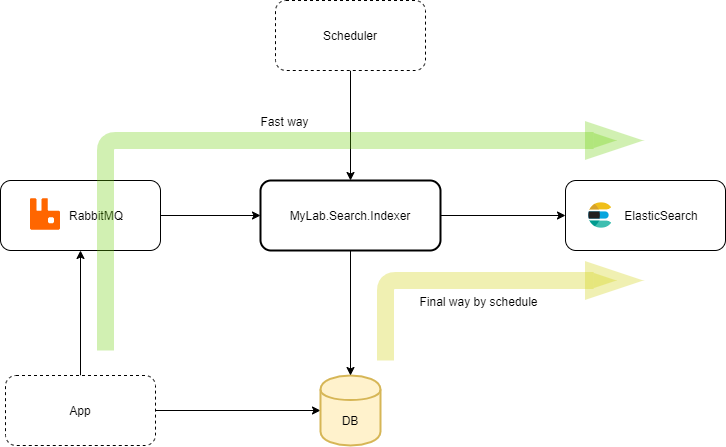
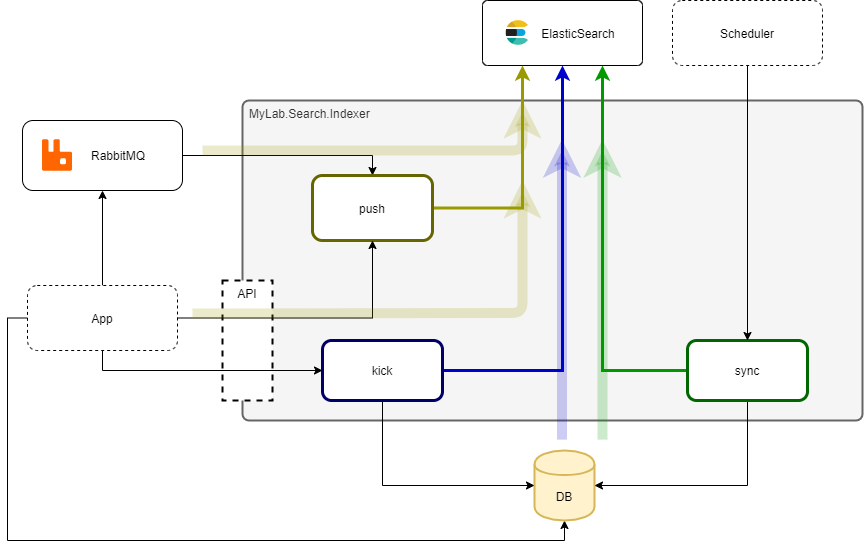
Update doc

diff --git a/README.md b/README.md
@@ -2,6 +2,8 @@
 
 [![Docker image](https://img.shields.io/static/v1?label=docker&style=flat&logo=docker&message=image&color=blue)](https://github.com/mylab-search-fx/indexer/pkgs/container/indexer)
 
+[![NuGet](https://img.shields.io/nuget/v/MyLab.Search.IndexerClient.svg)](https://www.nuget.org/packages/MyLab.Search.IndexerClient/)
+
 Индексирует данные из базы данных и/или `RabbitMQ` в `ElasticSearch`.
 
 ## Обзор
@@ -12,55 +14,20 @@
 
 Процесс индексации определяет следующие особенности:
 
-* данные могут быть получены из очереди (`RabbitMQ`) и/или из БД в зависимости от настроек;
-* база данных является приоритетным источником, т.е. если данные об индексируемой сущности приходят через очередь, то они перезапишутся данными из БД в ближайшей итерации по расписанию;
-* при совместном использовании, очерди и БД, назначение очереди - максимально быстро доставить данные для индексирования;
+* данные могут быть получены:
+  * из `БД`;
+  * через очередь;
+  * через `WEB API`.
+
+* база данных является приоритетным источником, т.е. если данные об индексируемой сущности приходят через очередь или `api`, то они перезапишутся данными из БД в ближайшей итерации по расписанию;
+* при совместном использовании, очерди/`api` и БД, назначение очереди/`api` - максимально быстро доставить данные для индексирования;
 * поддерживается индексация нескольких сущностей.
 
 ## Множественная индексация
 
-Приложение `Indexer` определяет абстракцию `Job`, объединяющую настроки индексации сущностей из БД и/или очереди. `Indexer` через конфигурацию поддерживает указание нескольких `Job`, что позволяет использовать один экземпляр `Indexer` для индекксирования нескольких типов сущностей, которые извлекаются разными запросами, получаются из разных очередей и индексируются в разных индексах по разным правилам.
+Приложение `Indexer` определяет абстракцию `Namespace`, объединяющую настроки индексации сущностей из БД, очереди и `api`. `Indexer` через конфигурацию поддерживает указание нескольких `Namespace`, что позволяет использовать один экземпляр `Indexer` для индекксирования нескольких типов сущностей, которые извлекаются разными запросами, получаются из разных очередей и индексируются в разных индексах по разным правилам.
 
-Все объявленные `Job`-ы выполняются последовательно, в соответствии с конфигурацией в рамках каждой итерации. В случае получения сообщений из очереди, `Job` определяется по очереди, из которой получено сообщение.  
-
-## Индексация через очередь
-
-При передаче данных через очередь, сущности передаются по одному в формате `JSON`. Не в зависимости от того, изменена ли сущетсвующая сущность или создаётся новая, передаваться в сообщении должны все актуальные данные в том виде, в каком они будут индексироваться. В случае, если сущность новая, то запись о ней появится в `ElasticSearch`. Если сущность была изменена и её индесированная копия уже есть в `ElasticSearch`, то данные будут заменены. Сопоставление переданной сущности и индексированной копии происходит по полю, указанному в настройках `Indexer.Jobs[].IdProperty` (поле-идентификатор). 
-
-Ниже приведён пример отправки тестовой сущности. В настройках поле-идентификатор - `Id`:
-
-```C#
-public class SearchTestEntity
-{
-    public long Id { get; set; }
-    public string Value { get; set; }
-}
-```
-
-Тело сообщения #1 в очереди:
-
-```json
-{"Id":2,"Value":"foo"}
-```
-
-Результат поиска #1 индексированной сущности (лишнее обрезано):
-
-```json
-{ "_source": { "Id": 2, "Value": "foo" } }
-```
-
-Тело сообщения #2 в очереди:
-
-```json
-{"Id":2,"Value":"bar"}
-```
-
-Результат поиска #2 индексированной сущности (лишнее обрезано):
-
-```json
-{ "_source": { "Id": 2, "Value": "bar" } }
-```
-
+Все объявленные `Namespace`-ы синхронизируются последовательно, в соответствии с конфигурацией в рамках каждой итерации. В случае получения сообщений из очереди, `Namespace` определяется по очереди, из которой получено сообщение. При обращзении через `API` имя `Namespace` передаётся в запросе.
 ## Индексация через БД
 
 Выборка даных для индексации осуществляется в соответствии с настройками и "отступом" последней выборки - `seed`. В зависимости от выбранной стратегии выборки, `seed` может принимать целочисленное значение или дату и время. В конце каждой итерации новый `seed` сохраняется в локальный файл. В начале очередной итерации - загружается. Если это первая итерации или файл не найден, то используется минимальное значение соответствующего типа.
@@ -75,18 +42,18 @@ public class SearchTestEntity
 
 Запрос БД может быть указан в: 
 
-* конфигурации `Job`-а: `Indexer.Jobs[].DbQuery`
+* конфигурации `Namespace`-а: `Indexer.Namespaces[].DbQuery`
 
 * или размещён в файле, путь которого состоит из следующих частей:
 
-  * базовый путь к директории с файлами `Job`-ов из конфигурации `Indexer.JobPath` = `/etc/mylab-indexer/jobs` (по умолчанию);
-  * идентификатор `Job`-а;
+  * базовый путь к директории с файлами `Job`-ов из конфигурации `Indexer.NamespacesPath` = `/etc/mylab-indexer/namespaces` (по умолчанию);
+  * идентификатор `Namespace`-а;
   * `query.sql`.
 
   Пример:
 
   ```
-  /etc/mylab-indexer/jobs/users/query.sql
+  /etc/mylab-indexer/namespaces/users/query.sql
   ```
 
 Запрос представляет из себя `SQL` запрос, в котором доступны следующие переменные:
@@ -138,6 +105,148 @@ select * from foo_table where Id > @seed
 select * from foo_table where LastModified > @seed
 ```
 
+## Push индексация
+
+`Push`-индексация - подход, подразумевающий передачу полноценной сущности со всеми её полями для индексации. При этом переданная сущность полностью заменяет сущость, проиндексированную ранее с тем же идентификатором.
+
+Не в зависимости от того, изменена ли сущетсвующая сущность или создаётся новая, передаваться в сообщении должны все актуальные данные в том виде, в каком они будут индексироваться. В случае, если сущность новая, то запись о ней появится в `ElasticSearch`. Если сущность была изменена и её индесированная копия уже есть в `ElasticSearch`, то данные будут заменены. Сопоставление переданной сущности и индексированной копии происходит по полю, указанному в настройках `Indexer.Namespaces[].IdProperty` (поле-идентификатор). 
+
+Применяется только для стратегии индексации `Add`.
+
+### Push через очередь
+
+При индексации через очередь, сущности передаются по одному в формате `JSON`.
+
+Ниже приведён пример отправки тестовой сущности. В настройках поле-идентификатор - `Id`:
+
+```C#
+public class SearchTestEntity
+{
+    public long Id { get; set; }
+    public string Value { get; set; }
+}
+```
+
+Тело сообщения #1 в очереди:
+
+```json
+{"Id":2,"Value":"foo"}
+```
+
+Результат поиска #1 индексированной сущности (лишнее обрезано):
+
+```json
+{ "_source": { "Id": 2, "Value": "foo" } }
+```
+
+Тело сообщения #2 в очереди:
+
+```json
+{"Id":2,"Value":"bar"}
+```
+
+Результат поиска #2 индексированной сущности (лишнее обрезано):
+
+```json
+{ "_source": { "Id": 2, "Value": "bar" } }
+```
+
+### Push через API
+
+При индексации через `api`, сущности передаются в формате `JSON`.
+
+Ниже приведён пример отправки тестовой сущности. В настройках поле-идентификатор - `Id`:
+
+```c#
+public class SearchTestEntity
+{
+    public long Id { get; set; }
+    public string Value { get; set; }
+}
+```
+
+Запрос #1:
+
+```http
+POST http://localhost/v1/test-namespaces
+
+Content-Type: application/json
+Content-Length: 20
+
+{"Id":2,"Value":"foo"}
+```
+
+Результат поиска #1 индексированной сущности (лишнее обрезано):
+
+```json
+{ "_source": { "Id": 2, "Value": "foo" } }
+```
+
+Запрос #2:
+
+```http
+POST http://localhost/v1/test-namespaces
+
+Content-Type: application/json
+Content-Length: 20
+
+{"Id":2,"Value":"bar"}
+```
+
+Результат поиска #2 индексированной сущности (лишнее обрезано):
+
+```json
+{ "_source": { "Id": 2, "Value": "bar" } }
+```
+
+## Kick индексация
+
+`Kick`-индексация - подход, подразумевающий передачу идентификатора сущности для дальнейшей её переиндексации из первоисточника - БД.
+
+### Kick через API
+
+Ниже приведён пример индексации сущности через `kick`-запрос. В настройках поле-идентификатор - `Id`:
+
+```c#
+public class SearchTestEntity
+{
+    public long Id { get; set; }
+    public string Value { get; set; }
+}
+```
+
+Результат поиска #1 индексированной сущности (лишнее обрезано):
+
+```json
+{ "_source": { "Id": 2, "Value": "foo" } }
+```
+
+Приложение обновляет сущность в БД:
+
+```sql
+DECLARE @Value_1 VarChar(3) -- String
+SET     @Value_1 = 'bar'
+
+UPDATE
+	`test` `e`
+SET
+	`e`.`Value` = @Value_1
+WHERE
+	`e`.`Id` = 2
+```
+
+`kick`-запрос:
+
+```http
+POST http://localhost/v1/test-namespaces/2/kick
+```
+
+Результат поиска #2 индексированной сущности (лишнее обрезано):
+
+```json
+{ "_source": { "Id": 2, "Value": "bar" } }
+```
+
 ## Удаление из индекса
 
 Данное решение не реализует удаление индексированных данных. Например, при удалении сущности из БД. 
@@ -149,7 +258,7 @@ select * from foo_table where LastModified > @seed
 
 ## Создание индекса
 
-Если в процессе индексирования, `Indexer` обнаружит, что целевой индекс в `ElasticSearch` отсутствует, то он попытается его сздать. При этом, будут использованы настройки в соответствии со стратегией определения настроек инлекса из параметра конфигурации приложения `Indexer.Jobs[].NewIndexStrategy`, который может принимать значения: `Auto`/`File`.
+Если в процессе индексирования, `Indexer` обнаружит, что целевой индекс в `ElasticSearch` отсутствует, то он попытается его сздать. При этом, будут использованы настройки в соответствии со стратегией определения настроек инлекса из параметра конфигурации приложения `Indexer.Namespaces[].NewIndexStrategy`, который может принимать значения: `Auto`/`File`.
 
 ### Cтратегия  `Auto`
 
@@ -185,7 +294,7 @@ select * from foo_table where LastModified > @seed
 
 По этой стратегии запрос создания индекса загружаются из файла, путь к которому формируется из следующих частей:
 
-* базовый путь к директории с файлами `Job`-ов из конфигурации `Indexer.JobPath` = `/etc/mylab-indexer/jobs` (по умолчанию);
+* базовый путь к директории с файлами `Job`-ов из конфигурации `Indexer.NamespacesPath` = `/etc/mylab-indexer/jobs` (по умолчанию);
 * идентификатор `Job`-а;
 * `new-index.json`.
 
@@ -263,13 +372,14 @@ select * from foo_table where LastModified > @seed
 
 Данный узел должен содержать следущие параметры:
 
-* `JobPath` - базовый путь к директориям ресурсов `Job`-ов. По умолчанию - `/etc/mylab-indexer/jobs`;
-* `SeedPath` - базовый путь к директории, где будут храниться `seed`-ы `Job`-ов;
-* `IndexNamePrefix` - префикс, который будет добавляться к имени индекса всех джобов (должен быть в нижнем регистре);
-* `IndexNamePostfix` - постфикс, который будет добавляться к имени индекса всех джобов (должен быть в нижнем регистре);
-* `Jobs` - настройки `Job`-ов:
-  * `JobId` - литеральный идентификатор `Job`-а. Например, `users` при индексации информации о пользователях;
-  * `IdProperty` - имя свойства, идентифицирующее сущность;
+* `NamespacesPath` - базовый путь к директориям ресурсов `Namespace`-ов. По умолчанию - `/etc/mylab-indexer/namespaces`;
+* `SeedPath` - базовый путь к директории, где будут храниться `seed`-ы `Namespace`-ов;
+* `IndexNamePrefix` - префикс, который будет добавляться к имени индекса всех `Namespace`-ов (должен быть в нижнем регистре);
+* `IndexNamePostfix` - постфикс, который будет добавляться к имени индекса всех `Namespace`-ов (должен быть в нижнем регистре);
+* `Namespaces` - настройки `Namespace`-ов:
+  * `NsId` - литеральный идентификатор `Namespace`-а. Например, `users` при индексации информации о пользователях;
+  * `IdPropertyName` - имя свойства, идентифицирующего сущность;
+  * `IdPropertyType` - тип свойства, идентифицирующего сущность: `Text`/`Integer`. Обязательно для `push`-индексации;
   * `LastChangeProperty` - имя свойства, содержащее дату и время актуализации данных сущности (создания или изменения). Обязательно, если `NewUpdatesStrategy == 'Update'`;
   * `MqQueue` - имя RabbitMQ очереди - источника индексируесых сущностей;
   *  `NewUpdatesStrategy` - стратегия определения записей для индексации: `Add`/`Update`;
@@ -317,16 +427,16 @@ services:
     image: ghcr.io/mylab-search-fx/indexer:latest
     volumes:
     - ./appsettings.json:/app/appsettings.json
-    - ./new-index-request.json:/etc/mylab-indexer/jobs/users/new-index.json
+    - ./new-index-request.json:/etc/mylab-indexer/namepsaces/users/new-index.json
 ```
 
 ## Рекомендации
 
-### 1. Используйте очередь только при необходиомости
+### 1. Используйте очередь или API только при необходиомости
 
-Используйте очередь совместно с БД только если требуется оперативная индексация. Например, для сущностей, которые создают и редактируют пользователи через интерфейс после этого переходят в список, который запрашивается в поисковике. 
+Используйте очередь или API совместно с БД только если требуется оперативная индексация. Например, для сущностей, которые создают и редактируют пользователи через интерфейс после этого переходят в список, который запрашивается в поисковике. 
 
-Использовании очереди с БД добавляет связанности и сложности решению.
+Использовании очереди или API с БД добавляет связанности и сложности решению.
 
 ### 2. Не используйте звёздочку `*` в SQL запросах
 
